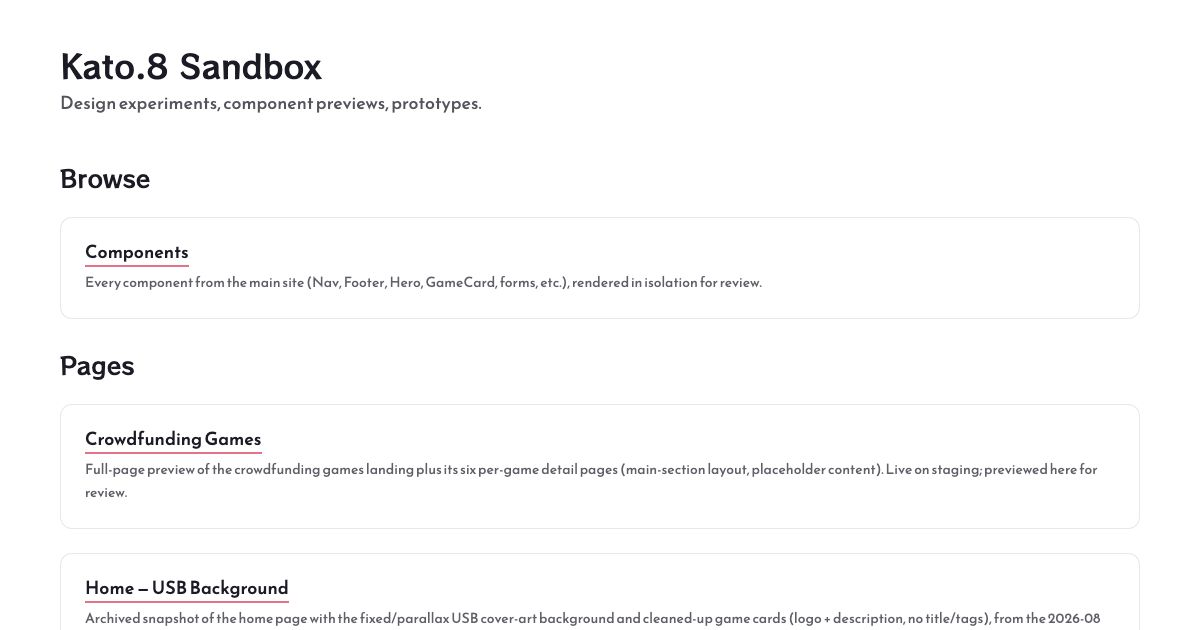
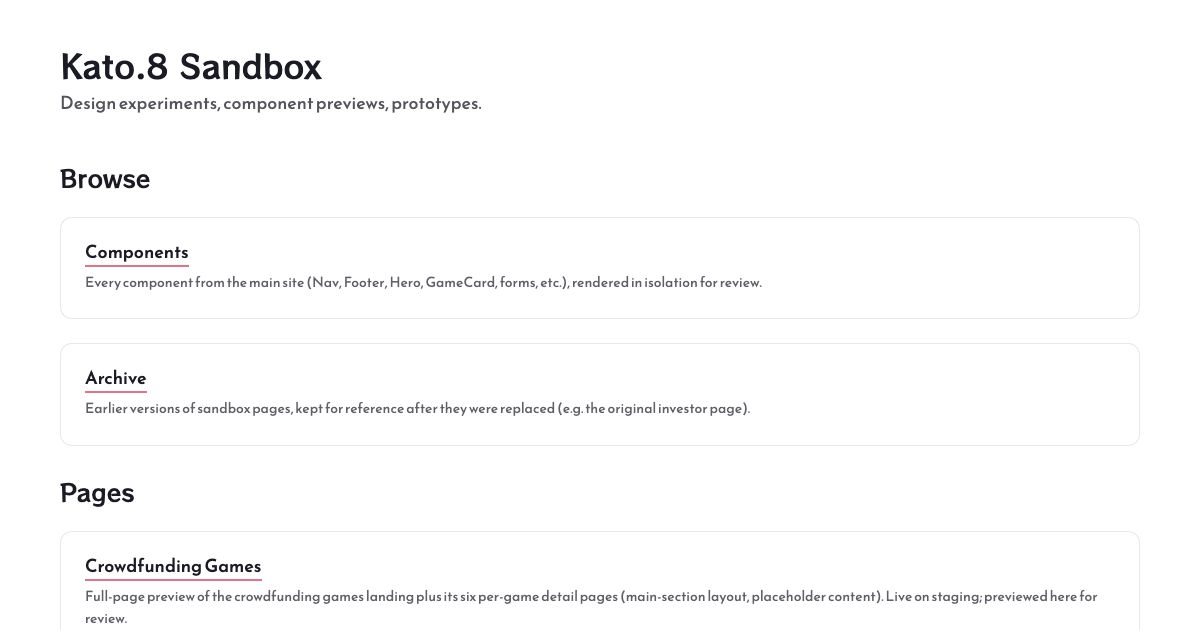
archive: keep the original investor page at /archive/investors-v1
Instead of deleting the replaced design, retired pages now move to an
archive. /archive lists them (linked from Browse on the home page), and
each archived page carries a notice saying when it was retired and what
replaced it.

The original investor page is a frozen copy with its own copy text and
investors-v1-* class names, so it can't pick up the live page's styles.
PROCESS.md gets a section on retiring a page this way.

Changed region(s): [[0.0617, 0.8746, 0.925, 0.9952], [0.0308, 0.6937, 0.925, 0.8143], [0.0308, 0.573, 0.6167, 0.6635]]

diff --git a/src/pages/ArchiveInvestorsV1Page.jsx b/src/pages/ArchiveInvestorsV1Page.jsx
@@ -1,0 +1,58 @@
+import InvestorRequestForm from '../components/InvestorRequestForm'
+import ArchiveNotice from '../components/ArchiveNotice'
+import { archived } from '../data/archive'
+import '../styles/investors-v1.css'
+
+/**
+ * Archived: the original investor / publisher page, retired 2026-10-28
+ * when the color design took over /investors. A frozen copy (its own
+ * copy text and `investors-v1` styles), so later edits to the live page
+ * don't change it. See src/data/archive.js.
+ */
+const ENTRY = archived.find((entry) => entry.path === '/archive/investors-v1')
+
+const HIGHLIGHTS = [
+  {
+    title: 'Original games',
+    body: 'A slate of in-house titles in active development, built to grow a catalog rather than chase a single hit.',
+  },
+  {
+    title: 'A community-first studio',
+    body: 'Players follow the work early — playtests, newsletter, and crowdfunding keep the audience close from day one.',
+  },
+  {
+    title: 'Early and hands-on',
+    body: 'Partner with us early and help shape where Kato.8 goes next, with direct access to the team.',
+  },
+]
+
+export default function ArchiveInvestorsV1Page() {
+  return (
+    <>
+      <ArchiveNotice entry={ENTRY} />
+      <main className="investors-v1">
+        <header className="investors-v1-hero">
+          <p className="investors-v1-hero_eyebrow">Investors &amp; Publishers</p>
+          <h1 className="investors-v1-hero_title">Partner with Kato.8</h1>
+          <p className="investors-v1-hero_lead">
+            Kato.8 is an independent game studio building original titles and the
+            community around them. We’re opening early conversations with investors
+            who want to back that journey and publishers who want to help bring our
+            games to more players. Get in touch below and we’ll follow up.
+          </p>
+        </header>
+
+        <section className="investors-v1-highlights" aria-label="Why Kato.8">
+          {HIGHLIGHTS.map((item) => (
+            <div key={item.title} className="investors-v1-highlight">
+              <h2 className="investors-v1-highlight_title">{item.title}</h2>
+              <p className="investors-v1-highlight_body">{item.body}</p>
+            </div>
+          ))}
+        </section>
+
+        <InvestorRequestForm source="archive-investors-v1" />
+      </main>
+    </>
+  )
+}

diff --git a/src/styles/investors-v1.css b/src/styles/investors-v1.css
@@ -1,0 +1,88 @@
+/*
+ * Archived original investor page (/archive/investors-v1), frozen copy. Layout for the hero + highlights
+ * above the shared `.signup-form` request form. Type + color come from
+ * the main-site tokens (RocknRoll One headings, Reem Kufi body, --text-*
+ * / --space-* variables), so this stays consistent with the live site
+ * and picks up light/dark automatically.
+ */
+
+.investors-v1 {
+  max-width: 46rem;
+  margin-inline: auto;
+  padding-block: var(--space-3, 2.5rem) var(--space-4, 4rem);
+  padding-inline: 1rem;
+  color: var(--text-primary);
+  font-family: 'Reem Kufi', sans-serif;
+}
+
+.investors-v1-hero {
+  text-align: center;
+  margin-bottom: var(--space-3, 2.5rem);
+}
+
+.investors-v1-hero_eyebrow {
+  margin: 0 0 0.5rem;
+  font-family: 'Reem Kufi', sans-serif;
+  font-size: 0.875rem;
+  letter-spacing: 0.14em;
+  text-transform: uppercase;
+  color: var(--squid-pink, #ff4d8d);
+}
+
+.investors-v1-hero_title {
+  margin: 0 0 1rem;
+  font-family: 'RocknRoll One', sans-serif;
+  font-size: clamp(2rem, 5vw, 3rem);
+  font-weight: 400;
+  line-height: 1.1;
+  color: var(--text-primary);
+}
+
+.investors-v1-hero_lead {
+  margin: 0 auto;
+  max-width: 38rem;
+  font-size: 1.125rem;
+  line-height: 1.6;
+  color: var(--text-primary);
+  opacity: 0.85;
+}
+
+.investors-v1-highlights {
+  display: grid;
+  grid-template-columns: repeat(3, 1fr);
+  gap: 1.25rem;
+  margin-bottom: var(--space-3, 2.5rem);
+}
+
+.investors-v1-highlight {
+  padding: 1.25rem;
+  border: 2px solid color-mix(in srgb, var(--text-primary) 18%, transparent);
+  border-radius: 0.75rem;
+}
+
+.investors-v1-highlight_title {
+  margin: 0 0 0.4rem;
+  font-family: 'RocknRoll One', sans-serif;
+  font-size: 1.0625rem;
+  font-weight: 400;
+  line-height: 1.2;
+  color: var(--text-primary);
+}
+
+.investors-v1-highlight_body {
+  margin: 0;
+  font-size: 0.9375rem;
+  line-height: 1.5;
+  color: var(--text-primary);
+  opacity: 0.8;
+}
+
+/* The submit button's block-shadow cleanup lives with the form
+   component itself — see src/styles/investor-request-form.css. */
+
+@media (max-width: 640px) {
+  .investors-v1-highlights {
+    grid-template-columns: 1fr;
+    gap: 0.9rem;
+  }
+}

diff --git a/src/pages/ArchivePage.jsx b/src/pages/ArchivePage.jsx
@@ -1,0 +1,35 @@
+import { Link } from 'react-router-dom'
+import { archived } from '../data/archive'
+import '../styles/home.css'
+import '../styles/archive.css'
+
+/** `/archive`: retired sandbox pages, kept for reference. */
+export default function ArchivePage() {
+  return (
+    <main className="sandbox-home">
+      <div className="container">
+        <header className="sandbox-home_header">
+          <h1 className="sandbox-home_title">Archive</h1>
+          <p className="sandbox-home_subtitle">
+            Earlier versions of sandbox pages, kept for reference after they were replaced.
+          </p>
+        </header>
+
+        <ul className="sandbox-home_list">
+          {archived.map((entry) => (
+            <li key={entry.path} className="sandbox-home_item">
+              <Link to={entry.path} className="sandbox-home_item-link">
+                {entry.title}
+              </Link>
+              <p className="sandbox-home_item-desc">{entry.description}</p>
+              <p className="archive-entry_meta">
+                Archived {entry.archived}
+                {entry.replacedBy && <> · replaced by <Link to={entry.replacedBy}>{entry.replacedBy}</Link></>}
+              </p>
+            </li>
+          ))}
+        </ul>
+      </div>
+    </main>
+  )
+}

diff --git a/src/App.jsx b/src/App.jsx
@@ -21,6 +21,8 @@ import NewsletterOnAboutPage from './pages/NewsletterOnAboutPage'
 import InvestorsPage from './pages/InvestorsPage'
 import StudioBiosPage from './pages/StudioBiosPage'
 import StudioBiosFramesPage from './pages/StudioBiosFramesPage'
+import ArchivePage from './pages/ArchivePage'
+import ArchiveInvestorsV1Page from './pages/ArchiveInvestorsV1Page'
 import PreviewPage from './previews/PreviewPage'
 // Pages scaffolded from the dev admin panel (scripts/dev-admin) auto-insert
 // their `import` line directly below the next marker. Keep the marker line
@@ -61,6 +63,8 @@ export default function App() {
       <Route path="/investors" element={<InvestorsPage />} />
       <Route path="/studio-bios" element={<StudioBiosPage />} />
       <Route path="/studio-bios-frames" element={<StudioBiosFramesPage />} />
+      <Route path="/archive" element={<ArchivePage />} />
+      <Route path="/archive/investors-v1" element={<ArchiveInvestorsV1Page />} />
       {/* ADMIN:PAGE-ROUTES — admin-scaffolded page routes insert below this line */}
       <Route path="/home-usb-background" element={<HomeUsbBackgroundPage />} />
       <Route path="/components" element={<PreviewPage />} />

diff --git a/src/data/seo-config.js b/src/data/seo-config.js
@@ -106,6 +106,21 @@ export const staticRoutes = {
     ogDescription:
       'Prototype investor / publisher page: cobalt hero, games strip, and contact form, with a new Investors nav tab.',
   },
+  '/archive': {
+    title: 'Archive | Kato.8 Sandbox',
+    description:
+      'Earlier versions of Kato.8 sandbox pages, kept for reference after they were replaced.',
+    ogTitle: 'Archive — Kato.8 Sandbox',
+    ogDescription: 'Retired sandbox pages, kept for reference.',
+  },
+  '/archive/investors-v1': {
+    title: 'Investors (original) | Kato.8 Sandbox',
+    description:
+      'Archived: the original Kato.8 investor / publisher page prototype, with a plain hero, highlight cards, and the contact form. Replaced by the color design on 2026-10-28.',
+    ogTitle: 'Investors page — original (archived)',
+    ogDescription:
+      'Archived first version of the investor / publisher page, replaced by the color design.',
+  },
   '/crowdfunding-games': {
     title: 'Crowdfunding Games | Kato.8 Sandbox',
     description:

diff --git a/src/data/archive.js b/src/data/archive.js
@@ -1,0 +1,22 @@
+/**
+ * Retired sandbox pages, listed on `/archive`. When a design is replaced,
+ * its page moves here instead of being deleted, so there's still a record
+ * of what it looked like. Archived pages live under `/archive/<slug>` and
+ * are frozen: they keep their own copy of copy and styles, so later edits
+ * to the live page don't change them.
+ *
+ * Entry shape: { path, title, archived, replacedBy, description }
+ *   archived:   date it was retired (YYYY-MM-DD)
+ *   replacedBy: the route that replaced it, or null
+ * Newest first.
+ */
+export const archived = [
+  {
+    path: '/archive/investors-v1',
+    title: 'Investors page — original',
+    archived: '2026-10-28',
+    replacedBy: '/investors',
+    description:
+      'The first investor / publisher page: a plain hero, three highlight cards, and the contact form, on the default page background. Replaced by the color design (cobalt hero band, games strip).',
+  },
+]

diff --git a/src/components/ArchiveNotice.jsx b/src/components/ArchiveNotice.jsx
@@ -1,0 +1,20 @@
+import { Link } from 'react-router-dom'
+import '../styles/archive.css'
+
+/**
+ * Bar at the top of an archived page saying when it was retired and what
+ * replaced it. Takes the page's entry from `src/data/archive.js`.
+ */
+export default function ArchiveNotice({ entry }) {
+  return (
+    <p className="archive-notice">
+      Archived {entry.archived}.{' '}
+      {entry.replacedBy && (
+        <>
+          Replaced by <Link to={entry.replacedBy}>{entry.replacedBy}</Link>.{' '}
+        </>
+      )}
+      <Link to="/archive">All archived pages</Link>
+    </p>
+  )
+}

diff --git a/src/styles/archive.css b/src/styles/archive.css
@@ -1,0 +1,25 @@
+/*
+ * /archive index (reuses the home page's .sandbox-home_* list styles) and
+ * the notice bar shown at the top of every archived page.
+ */
+
+.archive-entry_meta {
+  margin: 0.35rem 0 0;
+  font-size: 0.875rem;
+  color: var(--text-primary);
+  opacity: 0.65;
+}
+
+.archive-notice {
+  padding: 0.6rem 1rem;
+  background: color-mix(in srgb, var(--dark-cobalt, #1b1b26) 8%, transparent);
+  font-family: 'Reem Kufi', sans-serif;
+  font-size: 0.9375rem;
+  text-align: center;
+  color: var(--text-primary);
+}
+
+.archive-notice a {
+  color: inherit;
+  font-weight: 600;
+}

diff --git a/src/data/og-images.js b/src/data/og-images.js
@@ -3,6 +3,8 @@
 // public/assets/og/. Read by ogImageFor() in seo-config.js.
 export const ogImages = {
   "/": "/assets/og/home.jpg",
+  "/archive": "/assets/og/archive.jpg",
+  "/archive/investors-v1": "/assets/og/archive--investors-v1.jpg",
   "/components": "/assets/og/components.jpg",
   "/components/bio-cards": "/assets/og/components--bio-cards.jpg",
   "/components/discord-signup-form": "/assets/og/components--discord-signup-form.jpg",

diff --git a/src/data/homeSections.js b/src/data/homeSections.js
@@ -26,6 +26,11 @@ export const sections = [
     description:
       'Every component from the main site (Nav, Footer, Hero, GameCard, forms, etc.), rendered in isolation for review.',
   },
+  {
+    path: '/archive',
+    title: 'Archive',
+    description: 'Earlier versions of sandbox pages, kept for reference after they were replaced (e.g. the original investor page).',
+  },
 ]
 
 export const pages = [

diff --git a/PROCESS.md b/PROCESS.md
@@ -198,6 +198,23 @@ To use a specific image instead (e.g. key art), set `ogImage: '/assets/…'` on 
 
 Discord and Slack cache previews per URL, so a link shared before an update can keep showing the old preview for a while.
 
+## 4b. Retire a page to the archive
+
+When a design is replaced, move the old one to `/archive` instead of
+deleting it, so there's still a record of what it looked like:
+
+- Copy the page to `src/pages/Archive<Name>Page.jsx` and its CSS to
+  `src/styles/<name>.css`, renaming the class prefix (e.g. `investors-` →
+  `investors-v1-`). Every stylesheet is global in the built app, so a copy
+  that keeps the live page's class names would pick up the live page's rules.
+- Inline anything it imported from the live page (copy text, data), so later
+  edits to the live page don't change the archived one.
+- Render `<ArchiveNotice entry={...} />` at the top.
+- Route it at `/archive/<slug>` in `App.jsx`, add a `staticRoutes` entry in
+  `seo-config.js`, add an entry to `src/data/archive.js` (newest first), and
+  capture its OG image. Archived pages are listed on `/archive`, not in
+  `homeSections.js`.
+
 ## 5. Graduating an experiment to production
 
 When a design is approved and ready to ship:
